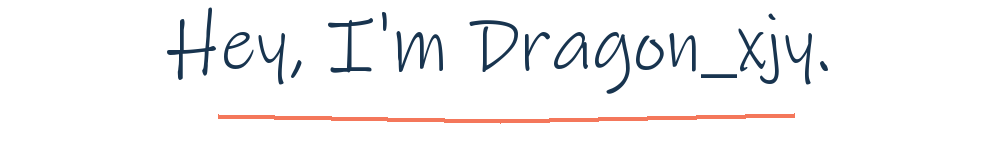
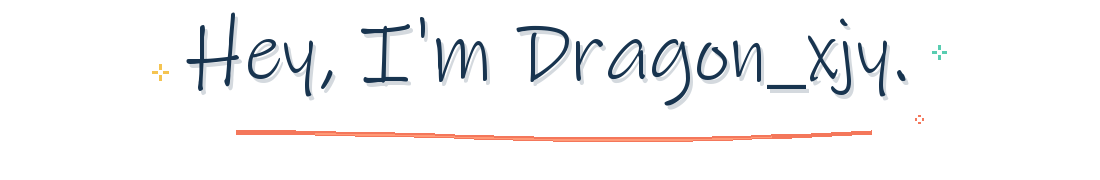
docs: enrich profile visuals and add waving cat

Changed region(s): [[0.124, 0.0533, 0.868, 0.64], [0.217, 0.72, 0.806, 0.8267], [0.744, 0.08, 0.775, 0.16]]

diff --git a/scripts/generate_profile_gif.py b/scripts/generate_profile_gif.py
@@ -78,6 +78,18 @@ def draw_background(draw: ImageDraw.ImageDraw, frame: int) -> None:
     draw.line((52, 105, 38, 139), fill="#D1E2E5")
     draw.line((190, 105, 207, 139), fill="#D1E2E5")
 
+    # A quiet wall clock and drifting dust make the room feel lived in.
+    draw.ellipse((91, 15, 108, 32), fill="#D5E3E7", outline=COLORS["navy_light"], width=2)
+    draw.ellipse((94, 18, 105, 29), fill=COLORS["white"])
+    clock_tick = (frame // 4) % 8
+    hand_x = 100 + int(round(math.sin(clock_tick * math.pi / 4) * 4))
+    hand_y = 24 - int(round(math.cos(clock_tick * math.pi / 4) * 4))
+    draw.line((100, 24, hand_x, hand_y), fill=COLORS["navy"], width=1)
+    draw.line((100, 24, 97, 27), fill=COLORS["coral"], width=1)
+    for index, (x, y) in enumerate(((72, 76), (85, 85), (101, 91), (117, 98))):
+        drift = (frame // 3 + index * 2) % 7
+        draw.point((x + drift, y - drift // 2), fill="#E8DFAF")
+
     # Window with moving clouds and a small city skyline.
     draw.rectangle((16, 15, 79, 67), fill=COLORS["navy_light"])
     draw.rectangle((19, 18, 76, 64), fill="#D9EEFA")
@@ -140,6 +152,14 @@ def draw_background(draw: ImageDraw.ImageDraw, frame: int) -> None:
     draw.point((84, 93), fill="#7F522D")
     draw.point((188, 92), fill="#7F522D")
 
+    # Notebook, pen, and mouse sit in the monitor's negative space.
+    draw.polygon([(188, 81), (207, 80), (211, 88), (190, 89)], fill="#F6F0DD", outline=COLORS["navy_light"])
+    draw.line((194, 83, 205, 82), fill="#B5B0A2")
+    draw.line((195, 86, 207, 85), fill="#B5B0A2")
+    draw.line((187, 79, 206, 88), fill=COLORS["coral"], width=2)
+    draw.ellipse((214, 81, 221, 91), fill="#DCE7EA", outline=COLORS["navy_light"])
+    draw.line((217, 83, 217, 86), fill=COLORS["navy_light"])
+
 
 def draw_monitor(draw: ImageDraw.ImageDraw, frame: int, stage: str) -> None:
     shake = 0
@@ -164,6 +184,8 @@ def draw_monitor(draw: ImageDraw.ImageDraw, frame: int, stage: str) -> None:
     draw.rectangle((x + 28, y + 48, x + 34, y + 55), fill=COLORS["navy"])
     draw.rectangle((x + 18, y + 55, x + 44, y + 58), fill=COLORS["navy"])
     draw.rectangle((x + 7, y + 42, x + 9, y + 44), fill=COLORS["mint"])
+    draw.arc((x + 51, y + 17, x + 72, y + 48), 265, 95, fill=COLORS["navy_light"], width=2)
+    draw.rectangle((x + 65, y + 41, x + 70, y + 50), outline=COLORS["navy_light"])
 
     font_small = load_font(7)
     font_medium = load_font(9, bold=True)
@@ -211,6 +233,7 @@ def draw_keyboard(draw: ImageDraw.ImageDraw, frame: int, stage: str) -> None:
             [(111, 89), (121 + spread, 87), (128 + spread, 92), (104, 94)],
             fill=COLORS["coffee"],
         )
+        draw.line((114, 90, 119 + spread, 89), fill="#A86B4B")
         draw.point((126 + spread // 2, 96), fill=COLORS["coffee"])
 
     if stage == "error" and frame < 37:
@@ -283,6 +306,16 @@ def draw_character(draw: ImageDraw.ImageDraw, frame: int, stage: str) -> None:
     )
     draw.rectangle((head_x + 5, head_y - 3, head_x + 13, head_y - 1), fill=COLORS["navy_light"])
     draw.point((head_x + 15, head_y + 13), fill=COLORS["skin_shadow"])
+
+    screen_light = {
+        "typing": COLORS["blue_light"],
+        "success": COLORS["hoodie_light"],
+        "spill": COLORS["hoodie_light"],
+        "error": "#FF9A83",
+        "recovery": "#9CB9C9",
+    }[stage]
+    draw.line((head_x + 16, head_y + 8, head_x + 16, head_y + 14), fill=screen_light)
+    draw.line((97, 75, 98, 84), fill=screen_light, width=2)
 
     if stage == "error":
         draw.rectangle((head_x + 7, head_y + 10, head_x + 9, head_y + 12), fill=COLORS["white"])
@@ -360,25 +393,126 @@ def render_frame(frame: int) -> Image.Image:
 
 
 def generate_title(output_dir: Path) -> None:
-    width, height = 1000, 150
+    width, height = 1100, 180
     image = Image.new("RGBA", (width, height), (255, 255, 255, 0))
     draw = ImageDraw.Draw(image)
     try:
-        font = ImageFont.truetype(r"C:\Windows\Fonts\Inkfree.ttf", 76)
+        font = ImageFont.truetype(r"C:\Windows\Fonts\Inkfree.ttf", 82)
     except OSError:
-        font = ImageFont.truetype("DejaVuSans.ttf", 76)
+        font = ImageFont.truetype("DejaVuSans.ttf", 82)
     text = "Hey, I'm Dragon_xjy."
     bbox = draw.textbbox((0, 0), text, font=font)
     text_width = bbox[2] - bbox[0]
     x = (width - text_width) // 2
-    draw.text((x, 18), text, font=font, fill=COLORS["navy"])
-    underline_y = 116
-    draw.line(
-        [(x + 50, underline_y), (x + text_width // 2, underline_y + 5), (x + text_width - 38, underline_y - 1)],
-        fill=COLORS["coral"],
-        width=5,
-    )
+    text_y = 24
+    draw.text((x + 3, text_y + 4), text, font=font, fill=(24, 52, 79, 48))
+    draw.text((x, text_y), text, font=font, fill=COLORS["navy"])
+
+    underline_y = 132
+    points = []
+    for step in range(33):
+        ratio = step / 32
+        px = int(x + 48 + (text_width - 88) * ratio)
+        py = int(underline_y + math.sin(ratio * math.pi) * 7 - math.sin(ratio * math.tau) * 2)
+        points.append((px, py))
+    draw.line(points, fill=COLORS["coral"], width=5)
+    draw.line(points[4:-5], fill="#FF9A77", width=2)
+
+    for sx, sy, color, size in (
+        (x - 28, 72, COLORS["yellow"], 8),
+        (x + text_width + 28, 52, COLORS["mint"], 7),
+        (x + text_width + 8, 119, COLORS["coral"], 4),
+    ):
+        draw.line((sx - size, sy, sx + size, sy), fill=color, width=3)
+        draw.line((sx, sy - size, sx, sy + size), fill=color, width=3)
+        draw.ellipse((sx - 2, sy - 2, sx + 2, sy + 2), fill=COLORS["white"])
     image.save(output_dir / "dragonxjy-title.png", optimize=True)
+
+
+def generate_cat_icon(output_dir: Path) -> None:
+    palette_colors = (
+        (0, 0, 0),
+        (24, 52, 79),
+        (245, 184, 77),
+        (217, 134, 53),
+        (255, 241, 205),
+        (240, 139, 131),
+        (89, 205, 177),
+        (255, 255, 255),
+        (245, 170, 145),
+        (244, 119, 91),
+    )
+    palette = [channel for color in palette_colors for channel in color]
+    palette.extend([0] * (768 - len(palette)))
+    frames = []
+
+    for frame in range(12):
+        image = Image.new("P", (32, 32), 0)
+        image.putpalette(palette)
+        draw = ImageDraw.Draw(image)
+        bob = -1 if frame in (2, 3, 8, 9) else 0
+        tail_shift = int(round(math.sin(frame * math.tau / 12) * 2))
+
+        draw.arc((2, 14 + tail_shift, 14, 29), 75, 275, fill=1, width=4)
+        draw.arc((3, 14 + tail_shift, 13, 28), 75, 275, fill=3, width=2)
+        draw.ellipse((8, 14 + bob, 24, 30 + bob), fill=1)
+        draw.ellipse((10, 15 + bob, 22, 29 + bob), fill=2)
+        draw.rectangle((11, 26 + bob, 14, 30 + bob), fill=3)
+        draw.rectangle((19, 26 + bob, 22, 30 + bob), fill=3)
+
+        draw.polygon([(7, 8 + bob), (9, 2 + bob), (14, 7 + bob)], fill=1)
+        draw.polygon([(18, 7 + bob), (23, 2 + bob), (25, 10 + bob)], fill=1)
+        draw.polygon([(9, 7 + bob), (10, 4 + bob), (13, 8 + bob)], fill=5)
+        draw.polygon([(20, 8 + bob), (22, 4 + bob), (23, 9 + bob)], fill=5)
+        draw.ellipse((6, 6 + bob, 25, 22 + bob), fill=1)
+        draw.ellipse((8, 7 + bob, 23, 21 + bob), fill=2)
+        draw.ellipse((11, 13 + bob, 21, 20 + bob), fill=4)
+
+        if frame in (4, 5, 10):
+            draw.line((11, 12 + bob, 14, 12 + bob), fill=1)
+            draw.line((18, 12 + bob, 21, 12 + bob), fill=1)
+        else:
+            draw.rectangle((12, 11 + bob, 13, 13 + bob), fill=1)
+            draw.rectangle((19, 11 + bob, 20, 13 + bob), fill=1)
+            draw.point((12, 11 + bob), fill=7)
+            draw.point((19, 11 + bob), fill=7)
+
+        draw.polygon([(15, 15 + bob), (17, 15 + bob), (16, 17 + bob)], fill=5)
+        draw.line((16, 17 + bob, 16, 18 + bob), fill=1)
+        draw.line((16, 18 + bob, 14, 19 + bob), fill=1)
+        draw.line((16, 18 + bob, 18, 19 + bob), fill=1)
+        draw.point((10, 17 + bob), fill=8)
+        draw.point((22, 17 + bob), fill=8)
+        draw.line((10, 16 + bob, 4, 15 + bob), fill=1)
+        draw.line((10, 18 + bob, 4, 19 + bob), fill=1)
+        draw.line((22, 16 + bob, 28, 15 + bob), fill=1)
+        draw.line((22, 18 + bob, 28, 19 + bob), fill=1)
+
+        paw_y = 8 + (frame % 4 in (1, 2)) * 2
+        draw.line((22, 20 + bob, 27, paw_y), fill=1, width=5)
+        draw.line((22, 20 + bob, 27, paw_y), fill=2, width=3)
+        draw.ellipse((25, paw_y - 2, 29, paw_y + 2), fill=2, outline=1)
+        draw.rectangle((9, 19 + bob, 23, 21 + bob), fill=6)
+
+        if frame in (7, 8, 9):
+            draw.point((29, 3), fill=9)
+            draw.point((28, 2), fill=9)
+            draw.point((30, 2), fill=9)
+            draw.point((29, 4), fill=9)
+
+        frames.append(image.resize((96, 96), Image.Resampling.NEAREST))
+
+    cat_path = output_dir / "waving-cat.gif"
+    frames[0].save(
+        cat_path,
+        save_all=True,
+        append_images=frames[1:],
+        duration=110,
+        loop=0,
+        optimize=True,
+        transparency=0,
+        disposal=2,
+    )
 
 
 def main() -> None:
@@ -403,6 +537,7 @@ def main() -> None:
         disposal=1,
     )
     generate_title(output_dir)
+    generate_cat_icon(output_dir)
     print(f"Generated {gif_path} with {len(frames)} frames")
 
 

diff --git a/README.md b/README.md
@@ -11,6 +11,7 @@
   <p>
     <samp>
       👋 Hello! I'm a curious maker who enjoys giving ideas a real shape.
+      <img src="./assets/waving-cat.gif" width="24" alt="A cute waving pixel cat" />
     </samp>
   </p>
 
@@ -43,19 +44,17 @@
 
   <img
     src="./assets/dragonxjy-coding.gif"
-    width="500"
+    width="460"
     alt="A funny pixel animation about coding, celebrating, spilling coffee, and meeting a 500 error"
   />
 
   <p>
-    <samp>Words live on Juejin. Work lives on GitHub.</samp>
+    <samp>☕ Welcome in — the ideas are fresh, and the keyboard has survived the coffee. Mostly.</samp>
   </p>
 
   <h3>
     <samp>
-      ✍ <a href="https://juejin.cn/user/1368213338982584/posts">Read my blog</a>
-      &nbsp;&nbsp;·&nbsp;&nbsp;
-      🧩 <a href="https://github.com/dragonxjy?tab=repositories">Explore my projects</a>
+      ✍ <a href="https://juejin.cn/user/1368213338982584/posts">Blog</a>
     </samp>
   </h3>
 
